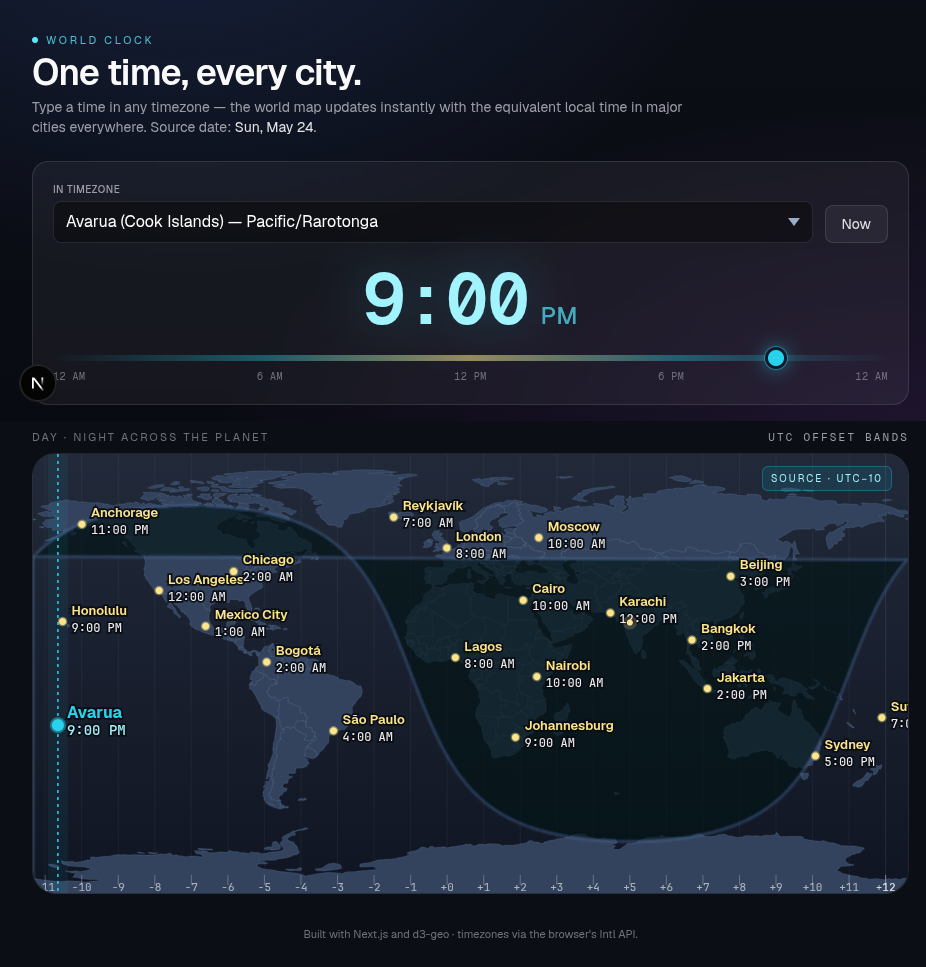
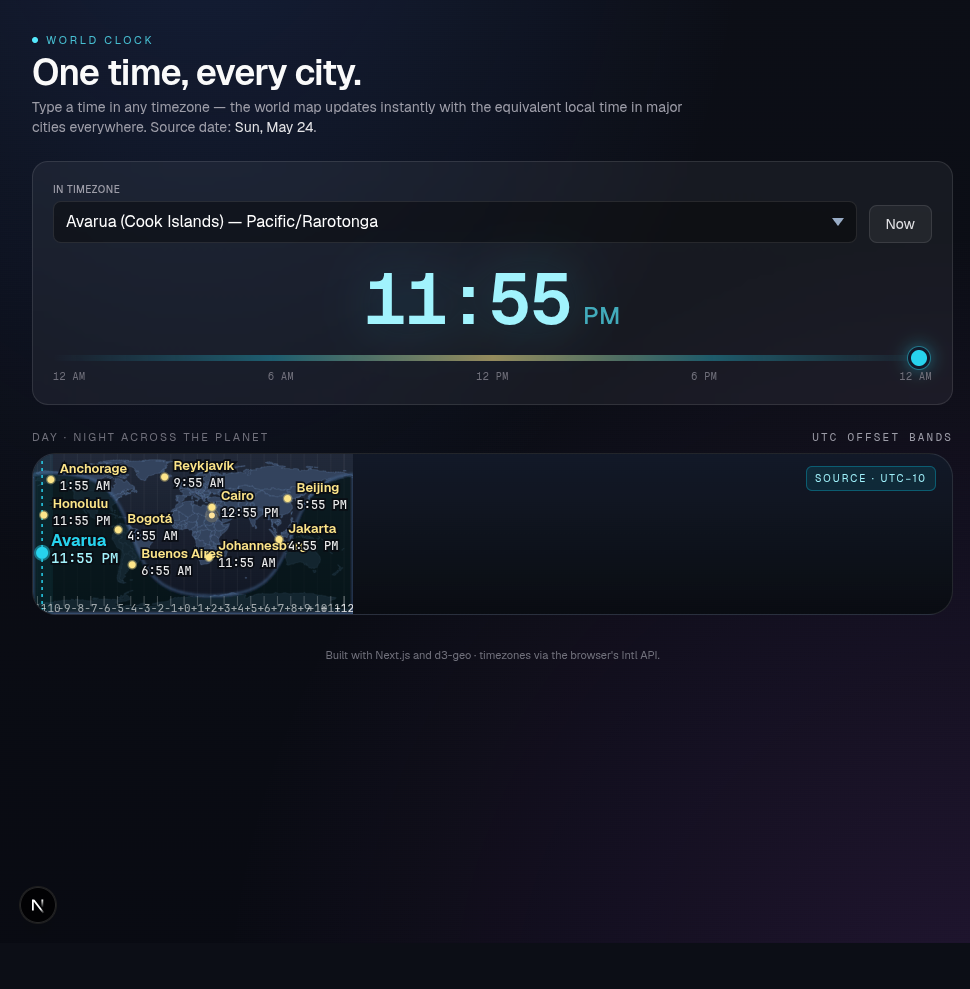
fix: night polygon was shading the wrong hemisphere with rotated projection
The day/night terminator polygon used d3's projection to compute its
polar-close points, but d3 equirectangular has antimeridian clipping that
wraps any point past ±180° in the rotated frame back to the left edge of
the map. With CENTER_LON = 10°, my "right polar" close point
(CENTER_LON + 180, polarLat) projected to x = 0 instead of x = width,
collapsing the closing segment and turning the polygon self-intersecting.
SVG nonzero fill then shaded the wrong half — cities like Paris and
Reykjavík showed up as dark at 10 AM local time.

Switched buildNightPath to a plain (non-clipping) equirectangular
projection that honors CENTER_LON, and close the polygon to the real
map corners (0, H) / (width, H) instead of projected polar points.

Also refreshed public/screenshot.png with the corrected render.

diff --git a/app/components/TimezoneStrip.tsx b/app/components/TimezoneStrip.tsx
@@ -58,8 +58,8 @@ export default function TimezoneStrip({ baseUtc, sourceZone }: Props) {
   const sub = useMemo(() => subsolarPoint(baseUtc), [baseUtc]);
 
   const nightPath = useMemo(
-    () => buildNightPath(sub, project),
-    [sub, project],
+    () => buildNightPath(sub, width, HEIGHT),
+    [sub, width, HEIGHT],
   );
 
   const sourceCity = useMemo(
@@ -287,36 +287,46 @@ export default function TimezoneStrip({ baseUtc, sourceZone }: Props) {
   );
 }
 
-// Build a closed SVG path covering the night hemisphere — sampled in the
-// rotated frame so the curve stays continuous regardless of where the
-// projection is centered.
+// Build a closed SVG path covering the night hemisphere. Uses a custom
+// equirectangular projection (no antimeridian clipping) so the polygon
+// spans the full visible map width — d3's clip wraps any point past the
+// rotated antimeridian back to the left edge, which would collapse the
+// polar-close points to (0, H) and shade the wrong half of the map.
 function buildNightPath(
   sub: { lon: number; lat: number },
-  projection: (coords: [number, number]) => [number, number] | null,
+  width: number,
+  height: number,
 ): string {
   const declRaw = sub.lat;
   const decl =
     Math.abs(declRaw) < 0.5 ? (declRaw >= 0 ? 0.5 : -0.5) : declRaw;
   const declRad = (decl * Math.PI) / 180;
 
+  const project = (lon: number, lat: number): [number, number] => {
+    let dLon = lon - CENTER_LON;
+    while (dLon > 180) dLon -= 360;
+    while (dLon < -180) dLon += 360;
+    return [
+      ((dLon + 180) / 360) * width,
+      ((90 - lat) / 180) * height,
+    ];
+  };
+
   const pts: [number, number][] = [];
-  // Sample longitudes relative to the central meridian so the projected
-  // x-coordinate moves smoothly from the left edge to the right edge.
   for (let dLon = -180; dLon <= 180; dLon += 1) {
     const lon = CENTER_LON + dLon;
     const lonRel = ((lon - sub.lon) * Math.PI) / 180;
     const lat =
       (Math.atan(-Math.cos(lonRel) / Math.tan(declRad)) * 180) / Math.PI;
-    const xy = projection([lon, lat]);
-    if (xy) pts.push(xy);
+    pts.push(project(lon, lat));
   }
 
-  // Close around the polar night cap (the hemisphere opposite the sun).
-  const polarLat = decl > 0 ? -90 : 90;
-  const rightEdge = projection([CENTER_LON + 180, polarLat]);
-  const leftEdge = projection([CENTER_LON - 180, polarLat]);
-  if (rightEdge) pts.push(rightEdge);
-  if (leftEdge) pts.push(leftEdge);
+  // Close around the polar night cap. For decl > 0 (sun in N), the dark
+  // hemisphere wraps the South Pole — close along the bottom edge of the
+  // map. For decl < 0, close along the top edge instead.
+  const polarY = decl > 0 ? height : 0;
+  pts.push([width, polarY]);
+  pts.push([0, polarY]);
 
   return (
     "M " +